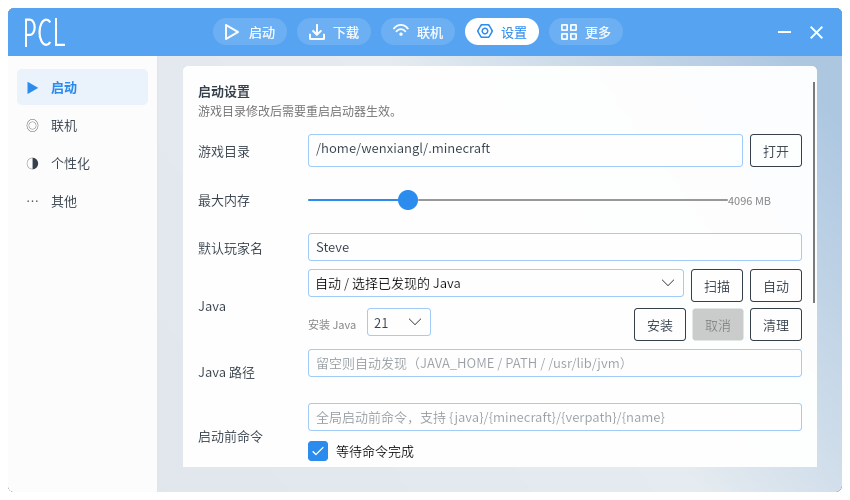
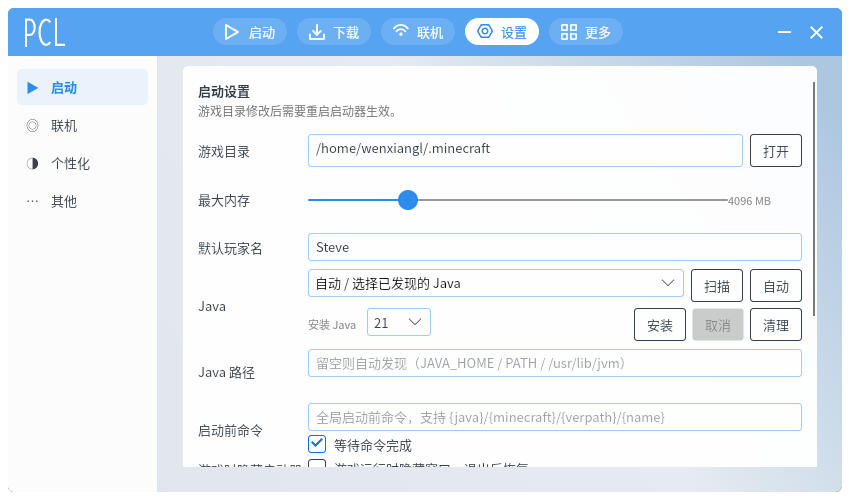
UI: PCL2 checkbox style

Changed region(s): [[0.3365, 0.87, 0.4894, 0.93], [0.2141, 0.84, 0.3059, 0.9]]

diff --git a/docs/UI_REFERENCE.md b/docs/UI_REFERENCE.md
@@ -18,6 +18,7 @@
 | 卡片 | PCL2 `MyCard`：圆角 5、无边框、背景 #F5FFFFFF、3px 柔和阴影 |
 | 按钮 | PCL2 `MyButton`：半透明白底 + 1px 边框；普通灰边灰字，Highlight 蓝边蓝字；圆角 3 |
 | 输入框/下拉框 | PCL2 `MyTextBox/MyComboBox`：半透明白底、浅蓝 `ColorBrushBg0` 边框、圆角 3、13px |
+| 复选框 | PCL2 `MyCheckBox`：18px 方框、圆角 3、浅色底、蓝勾 |
 | 页面背景 | 蓝色渐变（PCL-ME：`#96C0F9 → #E0EAFD → #D5E6FD`） |
 
 ## 当前实现
